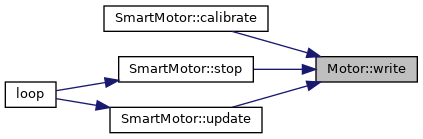
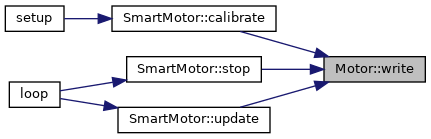
Deploying to gh-pages from @ Team-Isaac-Polito/PicoLowLevel@e9ff130d77fb0324136c61297536baf8fe0818e7 🚀

diff --git a/PicoLowLevel_8ino.html b/PicoLowLevel_8ino.html
@@ -364,27 +364,35 @@ Here is the call graph for this function:</div>
 <div class="dyncontent">
 <div class="center"><img src="PicoLowLevel_8ino_a4fc01d736fe50cf5b977f755b675f11d_cgraph.png" border="0" usemap="#aPicoLowLevel_8ino_a4fc01d736fe50cf5b977f755b675f11d_cgraph" alt=""/></div>
 <map name="aPicoLowLevel_8ino_a4fc01d736fe50cf5b977f755b675f11d_cgraph" id="aPicoLowLevel_8ino_a4fc01d736fe50cf5b977f755b675f11d_cgraph">
-<area shape="rect" title=" " alt="" coords="5,376,64,403"/>
+<area shape="rect" title=" " alt="" coords="5,401,64,428"/>
 <area shape="rect" href="classDisplay.html#ab569d31751d87ab3bd70744532d33605" title=" " alt="" coords="152,5,267,32"/>
 <area shape="rect" href="classSmartMotor.html#abe1e015d445ac4c830b446127279bdb1" title="Initialize SmartMotor and necessary components." alt="" coords="138,56,281,83"/>
 <area shape="rect" href="classWebManagement.html#a02872e65a699697c243e1dd23a3988c3" title="Initializes the WiFi connection, mDNS, OTA, and HTTP server." alt="" coords="119,107,299,133"/>
-<area shape="rect" href="classSerialDebug.html#a153ed172ea7eefd852292af7561ff961" title="Sends a line to the serial port with a debug level, only if it is lower than the setted one." alt="" coords="369,145,519,172"/>
+<area shape="rect" href="classSerialDebug.html#a153ed172ea7eefd852292af7561ff961" title="Sends a line to the serial port with a debug level, only if it is lower than the setted one." alt="" coords="369,123,519,149"/>
 <area shape="rect" href="classDynamixelInterface.html#a3e4e3332de3d8d675d94a7cd1f6c647c" title=" " alt="" coords="134,209,285,250"/>
-<area shape="rect" href="PicoLowLevel_8ino.html#a463bd5e2d6006d3d57e5569bd7c8cea4" title=" " alt="" coords="158,275,261,301"/>
-<area shape="rect" href="PicoLowLevel_8ino.html#a7e5bd9686428496c0be42f11e557bd2b" title=" " alt="" coords="162,325,257,352"/>
-<area shape="rect" href="structMCP2515.html#acc117f5538fcd2b00a18edf11382175a" title=" " alt="" coords="147,427,271,453"/>
-<area shape="rect" href="structMCP2515.html#aac89e9e84bb70719f3af943584efbe0e" title=" " alt="" coords="372,427,516,453"/>
-<area shape="rect" href="structMCP2515.html#ab79662c2b46e623158f5f4119d340d69" title=" " alt="" coords="581,477,769,504"/>
-<area shape="rect" href="structMCP2515.html#a4ecb1f510ead2fee02dcf368fdf18dfd" title=" " alt="" coords="355,477,533,504"/>
-<area shape="rect" href="structMCP2515.html#a18653c6d11e5bba734a1bd3b39268bb2" title=" " alt="" coords="132,579,287,605"/>
-<area shape="rect" href="classSerialDebug.html#ad55ccd7caae91b050455920991e512e4" title="Sets the level to be used for the debug." alt="" coords="127,629,291,656"/>
-<area shape="rect" href="structMCP2515.html#ac105b61f8336554451a8cb83d7f63548" title=" " alt="" coords="112,680,307,707"/>
-<area shape="rect" href="classDynamixelInterface.html#a092dd633e40a07b3ae4f06a4617ec0a3" title=" " alt="" coords="134,731,285,773"/>
-<area shape="rect" href="classMotor.html#a8949ad244c546ecde601ec3d03403ed9" title="Initialize motors." alt="" coords="392,19,496,45"/>
-<area shape="rect" href="classTractionEncoder.html#a3b38935e97776ddcebdeb2c394f6d48d" title="Sets the encoder&#39;s pins and attach the interrupt." alt="" coords="359,69,529,96"/>
-<area shape="rect" href="classSerialDebug.html#a3d01753681fd740869da197b2fa772b0" title="Sends a string to the Serial port with a debug level, only if it is lower than the setted one." alt="" coords="606,145,745,172"/>
-<area shape="rect" href="classDisplay.html#a5c28101c672878132e2ce5772ed93588" title="NAV button ISR." alt="" coords="365,275,523,301"/>
-<area shape="rect" href="classDisplay.html#aa9a7e82a5611d737c618a2f1cab7812a" title="OK button ISR." alt="" coords="369,325,519,352"/>
+<area shape="rect" href="classSmartMotor.html#ad30a82d663ba563d7618fbf0873c9671" title="Calibrate the PID controller." alt="" coords="127,275,291,301"/>
+<area shape="rect" href="PicoLowLevel_8ino.html#a463bd5e2d6006d3d57e5569bd7c8cea4" title=" " alt="" coords="158,325,261,352"/>
+<area shape="rect" href="PicoLowLevel_8ino.html#a7e5bd9686428496c0be42f11e557bd2b" title=" " alt="" coords="162,376,257,403"/>
+<area shape="rect" href="structMCP2515.html#acc117f5538fcd2b00a18edf11382175a" title=" " alt="" coords="147,477,271,504"/>
+<area shape="rect" href="structMCP2515.html#aac89e9e84bb70719f3af943584efbe0e" title=" " alt="" coords="372,477,516,504"/>
+<area shape="rect" href="structMCP2515.html#ab79662c2b46e623158f5f4119d340d69" title=" " alt="" coords="585,528,773,555"/>
+<area shape="rect" href="structMCP2515.html#a4ecb1f510ead2fee02dcf368fdf18dfd" title=" " alt="" coords="355,528,533,555"/>
+<area shape="rect" href="structMCP2515.html#a18653c6d11e5bba734a1bd3b39268bb2" title=" " alt="" coords="132,629,287,656"/>
+<area shape="rect" href="classSerialDebug.html#ad55ccd7caae91b050455920991e512e4" title="Sets the level to be used for the debug." alt="" coords="127,680,291,707"/>
+<area shape="rect" href="structMCP2515.html#ac105b61f8336554451a8cb83d7f63548" title=" " alt="" coords="112,731,307,757"/>
+<area shape="rect" href="classDynamixelInterface.html#a092dd633e40a07b3ae4f06a4617ec0a3" title=" " alt="" coords="134,782,285,823"/>
+<area shape="rect" href="classMotor.html#a8949ad244c546ecde601ec3d03403ed9" title="Initialize motors." alt="" coords="392,13,496,40"/>
+<area shape="rect" href="classTractionEncoder.html#a3b38935e97776ddcebdeb2c394f6d48d" title="Sets the encoder&#39;s pins and attach the interrupt." alt="" coords="359,64,529,91"/>
+<area shape="rect" href="classSerialDebug.html#a3d01753681fd740869da197b2fa772b0" title="Sends a string to the Serial port with a debug level, only if it is lower than the setted one." alt="" coords="609,123,748,149"/>
+<area shape="rect" href="classSmartMotor.html#a3dccbce0a9c9b01c7a3d5f2df239338f" title="Get the current speed of the motor." alt="" coords="360,173,528,200"/>
+<area shape="rect" href="classPID.html#a51fdda77a492d1a303fbb3ac44bd7e54" title="Sets the integrative gain." alt="" coords="401,224,487,251"/>
+<area shape="rect" href="classPID.html#a96b79772d13f60d161149be254ab6ff5" title="Sets the proportional gain." alt="" coords="399,275,489,301"/>
+<area shape="rect" href="classMotor.html#af98d9cd13add0aacca7cebe13b14103b" title="Sets the motor speed." alt="" coords="393,325,495,352"/>
+<area shape="rect" href="classTractionEncoder.html#a2c414262e6a923fe180d51197fc9bf5b" title="Returns the last detected speed." alt="" coords="581,173,776,200"/>
+<area shape="rect" href="classFilter.html#ab8e25fe3166a547f5c08e6c7b7f019e2" title="Virtual filter function, will be replaced by the one from the chosen filter." alt="" coords="873,148,966,175"/>
+<area shape="rect" href="classTractionEncoder.html#a7d301b140af5e49258d4a8dbebe7776d" title="Returns the number of steps since the class was initialized." alt="" coords="824,199,1015,225"/>
+<area shape="rect" href="classDisplay.html#a5c28101c672878132e2ce5772ed93588" title="NAV button ISR." alt="" coords="365,376,523,403"/>
+<area shape="rect" href="classDisplay.html#aa9a7e82a5611d737c618a2f1cab7812a" title="OK button ISR." alt="" coords="369,427,519,453"/>
 </map>
 </div>
 

diff --git a/classTractionEncoder.html b/classTractionEncoder.html
@@ -233,12 +233,13 @@ Here is the caller graph for this function:</div>
 <div class="dyncontent">
 <div class="center"><img src="classTractionEncoder_a2c414262e6a923fe180d51197fc9bf5b_icgraph.png" border="0" usemap="#aclassTractionEncoder_a2c414262e6a923fe180d51197fc9bf5b_icgraph" alt=""/></div>
 <map name="aclassTractionEncoder_a2c414262e6a923fe180d51197fc9bf5b_icgraph" id="aclassTractionEncoder_a2c414262e6a923fe180d51197fc9bf5b_icgraph">
-<area shape="rect" title="Returns the last detected speed." alt="" coords="532,56,727,83"/>
-<area shape="rect" href="classSmartMotor.html#a3dccbce0a9c9b01c7a3d5f2df239338f" title="Get the current speed of the motor." alt="" coords="316,56,484,83"/>
-<area shape="rect" href="classSmartMotor.html#ad30a82d663ba563d7618fbf0873c9671" title="Calibrate the PID controller." alt="" coords="104,5,268,32"/>
-<area shape="rect" href="PicoLowLevel_8ino.html#a8f9fa76a93541264f22c8f23f3fc1631" title=" " alt="" coords="127,56,245,83"/>
-<area shape="rect" href="classSmartMotor.html#a1eb6dc1fd54a13dce1705c7a31b0f9ab" title="Update routine, updating the PID and the motor speed." alt="" coords="110,107,262,133"/>
-<area shape="rect" href="PicoLowLevel_8ino.html#afe461d27b9c48d5921c00d521181f12f" title=" " alt="" coords="5,81,56,108"/>
+<area shape="rect" title="Returns the last detected speed." alt="" coords="540,56,735,83"/>
+<area shape="rect" href="classSmartMotor.html#a3dccbce0a9c9b01c7a3d5f2df239338f" title="Get the current speed of the motor." alt="" coords="324,56,492,83"/>
+<area shape="rect" href="classSmartMotor.html#ad30a82d663ba563d7618fbf0873c9671" title="Calibrate the PID controller." alt="" coords="112,5,276,32"/>
+<area shape="rect" href="PicoLowLevel_8ino.html#a8f9fa76a93541264f22c8f23f3fc1631" title=" " alt="" coords="135,56,253,83"/>
+<area shape="rect" href="classSmartMotor.html#a1eb6dc1fd54a13dce1705c7a31b0f9ab" title="Update routine, updating the PID and the motor speed." alt="" coords="118,107,270,133"/>
+<area shape="rect" href="PicoLowLevel_8ino.html#a4fc01d736fe50cf5b977f755b675f11d" title=" " alt="" coords="5,5,64,32"/>
+<area shape="rect" href="PicoLowLevel_8ino.html#afe461d27b9c48d5921c00d521181f12f" title=" " alt="" coords="9,81,60,108"/>
 </map>
 </div>
 
@@ -266,13 +267,14 @@ Here is the caller graph for this function:</div>
 <div class="dyncontent">
 <div class="center"><img src="classTractionEncoder_a7d301b140af5e49258d4a8dbebe7776d_icgraph.png" border="0" usemap="#aclassTractionEncoder_a7d301b140af5e49258d4a8dbebe7776d_icgraph" alt=""/></div>
 <map name="aclassTractionEncoder_a7d301b140af5e49258d4a8dbebe7776d_icgraph" id="aclassTractionEncoder_a7d301b140af5e49258d4a8dbebe7776d_icgraph">
-<area shape="rect" title="Returns the number of steps since the class was initialized." alt="" coords="775,56,965,83"/>
-<area shape="rect" href="classTractionEncoder.html#a2c414262e6a923fe180d51197fc9bf5b" title="Returns the last detected speed." alt="" coords="532,56,727,83"/>
-<area shape="rect" href="classSmartMotor.html#a3dccbce0a9c9b01c7a3d5f2df239338f" title="Get the current speed of the motor." alt="" coords="316,56,484,83"/>
-<area shape="rect" href="classSmartMotor.html#ad30a82d663ba563d7618fbf0873c9671" title="Calibrate the PID controller." alt="" coords="104,5,268,32"/>
-<area shape="rect" href="PicoLowLevel_8ino.html#a8f9fa76a93541264f22c8f23f3fc1631" title=" " alt="" coords="127,56,245,83"/>
-<area shape="rect" href="classSmartMotor.html#a1eb6dc1fd54a13dce1705c7a31b0f9ab" title="Update routine, updating the PID and the motor speed." alt="" coords="110,107,262,133"/>
-<area shape="rect" href="PicoLowLevel_8ino.html#afe461d27b9c48d5921c00d521181f12f" title=" " alt="" coords="5,81,56,108"/>
+<area shape="rect" title="Returns the number of steps since the class was initialized." alt="" coords="783,56,973,83"/>
+<area shape="rect" href="classTractionEncoder.html#a2c414262e6a923fe180d51197fc9bf5b" title="Returns the last detected speed." alt="" coords="540,56,735,83"/>
+<area shape="rect" href="classSmartMotor.html#a3dccbce0a9c9b01c7a3d5f2df239338f" title="Get the current speed of the motor." alt="" coords="324,56,492,83"/>
+<area shape="rect" href="classSmartMotor.html#ad30a82d663ba563d7618fbf0873c9671" title="Calibrate the PID controller." alt="" coords="112,5,276,32"/>
+<area shape="rect" href="PicoLowLevel_8ino.html#a8f9fa76a93541264f22c8f23f3fc1631" title=" " alt="" coords="135,56,253,83"/>
+<area shape="rect" href="classSmartMotor.html#a1eb6dc1fd54a13dce1705c7a31b0f9ab" title="Update routine, updating the PID and the motor speed." alt="" coords="118,107,270,133"/>
+<area shape="rect" href="PicoLowLevel_8ino.html#a4fc01d736fe50cf5b977f755b675f11d" title=" " alt="" coords="5,5,64,32"/>
+<area shape="rect" href="PicoLowLevel_8ino.html#afe461d27b9c48d5921c00d521181f12f" title=" " alt="" coords="9,81,60,108"/>
 </map>
 </div>
 

diff --git a/classSmartMotor.html b/classSmartMotor.html
@@ -267,6 +267,15 @@ Here is the call graph for this function:</div>
 <area shape="rect" href="classSerialDebug.html#a3d01753681fd740869da197b2fa772b0" title="Sends a string to the Serial port with a debug level, only if it is lower than the setted one." alt="" coords="461,81,600,108"/>
 </map>
 </div>
+<div class="dynheader">
+Here is the caller graph for this function:</div>
+<div class="dyncontent">
+<div class="center"><img src="classSmartMotor_ad30a82d663ba563d7618fbf0873c9671_icgraph.png" border="0" usemap="#aclassSmartMotor_ad30a82d663ba563d7618fbf0873c9671_icgraph" alt=""/></div>
+<map name="aclassSmartMotor_ad30a82d663ba563d7618fbf0873c9671_icgraph" id="aclassSmartMotor_ad30a82d663ba563d7618fbf0873c9671_icgraph">
+<area shape="rect" title="Calibrate the PID controller." alt="" coords="112,5,276,32"/>
+<area shape="rect" href="PicoLowLevel_8ino.html#a4fc01d736fe50cf5b977f755b675f11d" title=" " alt="" coords="5,5,64,32"/>
+</map>
+</div>
 
 </div>
 </div>
@@ -303,11 +312,12 @@ Here is the caller graph for this function:</div>
 <div class="dyncontent">
 <div class="center"><img src="classSmartMotor_a3dccbce0a9c9b01c7a3d5f2df239338f_icgraph.png" border="0" usemap="#aclassSmartMotor_a3dccbce0a9c9b01c7a3d5f2df239338f_icgraph" alt=""/></div>
 <map name="aclassSmartMotor_a3dccbce0a9c9b01c7a3d5f2df239338f_icgraph" id="aclassSmartMotor_a3dccbce0a9c9b01c7a3d5f2df239338f_icgraph">
-<area shape="rect" title="Get the current speed of the motor." alt="" coords="316,56,484,83"/>
-<area shape="rect" href="classSmartMotor.html#ad30a82d663ba563d7618fbf0873c9671" title="Calibrate the PID controller." alt="" coords="104,5,268,32"/>
-<area shape="rect" href="PicoLowLevel_8ino.html#a8f9fa76a93541264f22c8f23f3fc1631" title=" " alt="" coords="127,56,245,83"/>
-<area shape="rect" href="classSmartMotor.html#a1eb6dc1fd54a13dce1705c7a31b0f9ab" title="Update routine, updating the PID and the motor speed." alt="" coords="110,107,262,133"/>
-<area shape="rect" href="PicoLowLevel_8ino.html#afe461d27b9c48d5921c00d521181f12f" title=" " alt="" coords="5,81,56,108"/>
+<area shape="rect" title="Get the current speed of the motor." alt="" coords="324,56,492,83"/>
+<area shape="rect" href="classSmartMotor.html#ad30a82d663ba563d7618fbf0873c9671" title="Calibrate the PID controller." alt="" coords="112,5,276,32"/>
+<area shape="rect" href="PicoLowLevel_8ino.html#a8f9fa76a93541264f22c8f23f3fc1631" title=" " alt="" coords="135,56,253,83"/>
+<area shape="rect" href="classSmartMotor.html#a1eb6dc1fd54a13dce1705c7a31b0f9ab" title="Update routine, updating the PID and the motor speed." alt="" coords="118,107,270,133"/>
+<area shape="rect" href="PicoLowLevel_8ino.html#a4fc01d736fe50cf5b977f755b675f11d" title=" " alt="" coords="5,5,64,32"/>
+<area shape="rect" href="PicoLowLevel_8ino.html#afe461d27b9c48d5921c00d521181f12f" title=" " alt="" coords="9,81,60,108"/>
 </map>
 </div>
 

diff --git a/classSerialDebug.html b/classSerialDebug.html
@@ -269,7 +269,7 @@ Here is the caller graph for this function:</div>
 <area shape="rect" href="classAbsoluteEncoder.html#a487c5f6059e9dd3dbaa485938fda6c80" title="Reads the current measured angle." alt="" coords="349,183,555,209"/>
 <area shape="rect" href="classAbsoluteEncoder.html#a76e13c75b1976dbc5eac9968d97848fe" title="Start the encoder at zero with the default direction." alt="" coords="119,56,294,83"/>
 <area shape="rect" href="classWebManagement.html#a02872e65a699697c243e1dd23a3988c3" title="Initializes the WiFi connection, mDNS, OTA, and HTTP server." alt="" coords="117,107,297,133"/>
-<area shape="rect" href="PicoLowLevel_8ino.html#a4fc01d736fe50cf5b977f755b675f11d" title=" " alt="" coords="5,132,64,159"/>
+<area shape="rect" href="PicoLowLevel_8ino.html#a4fc01d736fe50cf5b977f755b675f11d" title=" " alt="" coords="5,157,64,184"/>
 <area shape="rect" href="classSmartMotor.html#ad30a82d663ba563d7618fbf0873c9671" title="Calibrate the PID controller." alt="" coords="125,208,289,235"/>
 <area shape="rect" href="classSerialDebug.html#a12bec7c49d756040fa4f16ce5f1f6cd4" title="Sends a debug line to the serial port, only debug is accepted." alt="" coords="131,259,282,285"/>
 <area shape="rect" href="classAbsoluteEncoder.html#a26b4493f44904d31dab6f5fd3e9c734e" title="Sets the encoder current position to zero." alt="" coords="112,309,301,336"/>
@@ -463,7 +463,7 @@ Here is the caller graph for this function:</div>
 <area shape="rect" title="Sends a line to the serial port with a debug level, only if it is lower than the setted one." alt="" coords="349,157,500,184"/>
 <area shape="rect" href="classAbsoluteEncoder.html#a76e13c75b1976dbc5eac9968d97848fe" title="Start the encoder at zero with the default direction." alt="" coords="119,5,294,32"/>
 <area shape="rect" href="classWebManagement.html#a02872e65a699697c243e1dd23a3988c3" title="Initializes the WiFi connection, mDNS, OTA, and HTTP server." alt="" coords="117,56,297,83"/>
-<area shape="rect" href="PicoLowLevel_8ino.html#a4fc01d736fe50cf5b977f755b675f11d" title=" " alt="" coords="5,81,64,108"/>
+<area shape="rect" href="PicoLowLevel_8ino.html#a4fc01d736fe50cf5b977f755b675f11d" title=" " alt="" coords="5,107,64,133"/>
 <area shape="rect" href="classSmartMotor.html#ad30a82d663ba563d7618fbf0873c9671" title="Calibrate the PID controller." alt="" coords="125,157,289,184"/>
 <area shape="rect" href="PicoLowLevel_8ino.html#afe461d27b9c48d5921c00d521181f12f" title=" " alt="" coords="181,208,232,235"/>
 <area shape="rect" href="classSerialDebug.html#a12bec7c49d756040fa4f16ce5f1f6cd4" title="Sends a debug line to the serial port, only debug is accepted." alt="" coords="131,259,282,285"/>

diff --git a/classFilter.html b/classFilter.html
@@ -163,13 +163,14 @@ Here is the caller graph for this function:</div>
 <div class="dyncontent">
 <div class="center"><img src="classFilter_ab8e25fe3166a547f5c08e6c7b7f019e2_icgraph.png" border="0" usemap="#aclassFilter_ab8e25fe3166a547f5c08e6c7b7f019e2_icgraph" alt=""/></div>
 <map name="aclassFilter_ab8e25fe3166a547f5c08e6c7b7f019e2_icgraph" id="aclassFilter_ab8e25fe3166a547f5c08e6c7b7f019e2_icgraph">
-<area shape="rect" title="Virtual filter function, will be replaced by the one from the chosen filter." alt="" coords="775,56,868,83"/>
-<area shape="rect" href="classTractionEncoder.html#a2c414262e6a923fe180d51197fc9bf5b" title="Returns the last detected speed." alt="" coords="532,56,727,83"/>
-<area shape="rect" href="classSmartMotor.html#a3dccbce0a9c9b01c7a3d5f2df239338f" title="Get the current speed of the motor." alt="" coords="316,56,484,83"/>
-<area shape="rect" href="classSmartMotor.html#ad30a82d663ba563d7618fbf0873c9671" title="Calibrate the PID controller." alt="" coords="104,5,268,32"/>
-<area shape="rect" href="PicoLowLevel_8ino.html#a8f9fa76a93541264f22c8f23f3fc1631" title=" " alt="" coords="127,56,245,83"/>
-<area shape="rect" href="classSmartMotor.html#a1eb6dc1fd54a13dce1705c7a31b0f9ab" title="Update routine, updating the PID and the motor speed." alt="" coords="110,107,262,133"/>
-<area shape="rect" href="PicoLowLevel_8ino.html#afe461d27b9c48d5921c00d521181f12f" title=" " alt="" coords="5,81,56,108"/>
+<area shape="rect" title="Virtual filter function, will be replaced by the one from the chosen filter." alt="" coords="783,56,876,83"/>
+<area shape="rect" href="classTractionEncoder.html#a2c414262e6a923fe180d51197fc9bf5b" title="Returns the last detected speed." alt="" coords="540,56,735,83"/>
+<area shape="rect" href="classSmartMotor.html#a3dccbce0a9c9b01c7a3d5f2df239338f" title="Get the current speed of the motor." alt="" coords="324,56,492,83"/>
+<area shape="rect" href="classSmartMotor.html#ad30a82d663ba563d7618fbf0873c9671" title="Calibrate the PID controller." alt="" coords="112,5,276,32"/>
+<area shape="rect" href="PicoLowLevel_8ino.html#a8f9fa76a93541264f22c8f23f3fc1631" title=" " alt="" coords="135,56,253,83"/>
+<area shape="rect" href="classSmartMotor.html#a1eb6dc1fd54a13dce1705c7a31b0f9ab" title="Update routine, updating the PID and the motor speed." alt="" coords="118,107,270,133"/>
+<area shape="rect" href="PicoLowLevel_8ino.html#a4fc01d736fe50cf5b977f755b675f11d" title=" " alt="" coords="5,5,64,32"/>
+<area shape="rect" href="PicoLowLevel_8ino.html#afe461d27b9c48d5921c00d521181f12f" title=" " alt="" coords="9,81,60,108"/>
 </map>
 </div>
 

diff --git a/classPID.html b/classPID.html
@@ -352,8 +352,9 @@ Here is the caller graph for this function:</div>
 <div class="dyncontent">
 <div class="center"><img src="classPID_a51fdda77a492d1a303fbb3ac44bd7e54_icgraph.png" border="0" usemap="#aclassPID_a51fdda77a492d1a303fbb3ac44bd7e54_icgraph" alt=""/></div>
 <map name="aclassPID_a51fdda77a492d1a303fbb3ac44bd7e54_icgraph" id="aclassPID_a51fdda77a492d1a303fbb3ac44bd7e54_icgraph">
-<area shape="rect" title="Sets the integrative gain." alt="" coords="217,5,303,32"/>
-<area shape="rect" href="classSmartMotor.html#ad30a82d663ba563d7618fbf0873c9671" title="Calibrate the PID controller." alt="" coords="5,5,169,32"/>
+<area shape="rect" title="Sets the integrative gain." alt="" coords="324,5,409,32"/>
+<area shape="rect" href="classSmartMotor.html#ad30a82d663ba563d7618fbf0873c9671" title="Calibrate the PID controller." alt="" coords="112,5,276,32"/>
+<area shape="rect" href="PicoLowLevel_8ino.html#a4fc01d736fe50cf5b977f755b675f11d" title=" " alt="" coords="5,5,64,32"/>
 </map>
 </div>
 
@@ -387,8 +388,9 @@ Here is the caller graph for this function:</div>
 <div class="dyncontent">
 <div class="center"><img src="classPID_a96b79772d13f60d161149be254ab6ff5_icgraph.png" border="0" usemap="#aclassPID_a96b79772d13f60d161149be254ab6ff5_icgraph" alt=""/></div>
 <map name="aclassPID_a96b79772d13f60d161149be254ab6ff5_icgraph" id="aclassPID_a96b79772d13f60d161149be254ab6ff5_icgraph">
-<area shape="rect" title="Sets the proportional gain." alt="" coords="217,5,307,32"/>
-<area shape="rect" href="classSmartMotor.html#ad30a82d663ba563d7618fbf0873c9671" title="Calibrate the PID controller." alt="" coords="5,5,169,32"/>
+<area shape="rect" title="Sets the proportional gain." alt="" coords="324,5,413,32"/>
+<area shape="rect" href="classSmartMotor.html#ad30a82d663ba563d7618fbf0873c9671" title="Calibrate the PID controller." alt="" coords="112,5,276,32"/>
+<area shape="rect" href="PicoLowLevel_8ino.html#a4fc01d736fe50cf5b977f755b675f11d" title=" " alt="" coords="5,5,64,32"/>
 </map>
 </div>
 

diff --git a/classMotor.html b/classMotor.html
@@ -212,11 +212,12 @@ Here is the caller graph for this function:</div>
 <div class="dyncontent">
 <div class="center"><img src="classMotor_af98d9cd13add0aacca7cebe13b14103b_icgraph.png" border="0" usemap="#aclassMotor_af98d9cd13add0aacca7cebe13b14103b_icgraph" alt=""/></div>
 <map name="aclassMotor_af98d9cd13add0aacca7cebe13b14103b_icgraph" id="aclassMotor_af98d9cd13add0aacca7cebe13b14103b_icgraph">
-<area shape="rect" title="Sets the motor speed." alt="" coords="316,56,417,83"/>
-<area shape="rect" href="classSmartMotor.html#ad30a82d663ba563d7618fbf0873c9671" title="Calibrate the PID controller." alt="" coords="104,5,268,32"/>
-<area shape="rect" href="classSmartMotor.html#a0888c018802eebdef813dd4824d98da2" title="Stop the motor." alt="" coords="119,56,253,83"/>
-<area shape="rect" href="classSmartMotor.html#a1eb6dc1fd54a13dce1705c7a31b0f9ab" title="Update routine, updating the PID and the motor speed." alt="" coords="110,107,262,133"/>
-<area shape="rect" href="PicoLowLevel_8ino.html#afe461d27b9c48d5921c00d521181f12f" title=" " alt="" coords="5,81,56,108"/>
+<area shape="rect" title="Sets the motor speed." alt="" coords="324,56,425,83"/>
+<area shape="rect" href="classSmartMotor.html#ad30a82d663ba563d7618fbf0873c9671" title="Calibrate the PID controller." alt="" coords="112,5,276,32"/>
+<area shape="rect" href="classSmartMotor.html#a0888c018802eebdef813dd4824d98da2" title="Stop the motor." alt="" coords="127,56,261,83"/>
+<area shape="rect" href="classSmartMotor.html#a1eb6dc1fd54a13dce1705c7a31b0f9ab" title="Update routine, updating the PID and the motor speed." alt="" coords="118,107,270,133"/>
+<area shape="rect" href="PicoLowLevel_8ino.html#a4fc01d736fe50cf5b977f755b675f11d" title=" " alt="" coords="5,5,64,32"/>
+<area shape="rect" href="PicoLowLevel_8ino.html#afe461d27b9c48d5921c00d521181f12f" title=" " alt="" coords="9,81,60,108"/>
 </map>
 </div>
 
